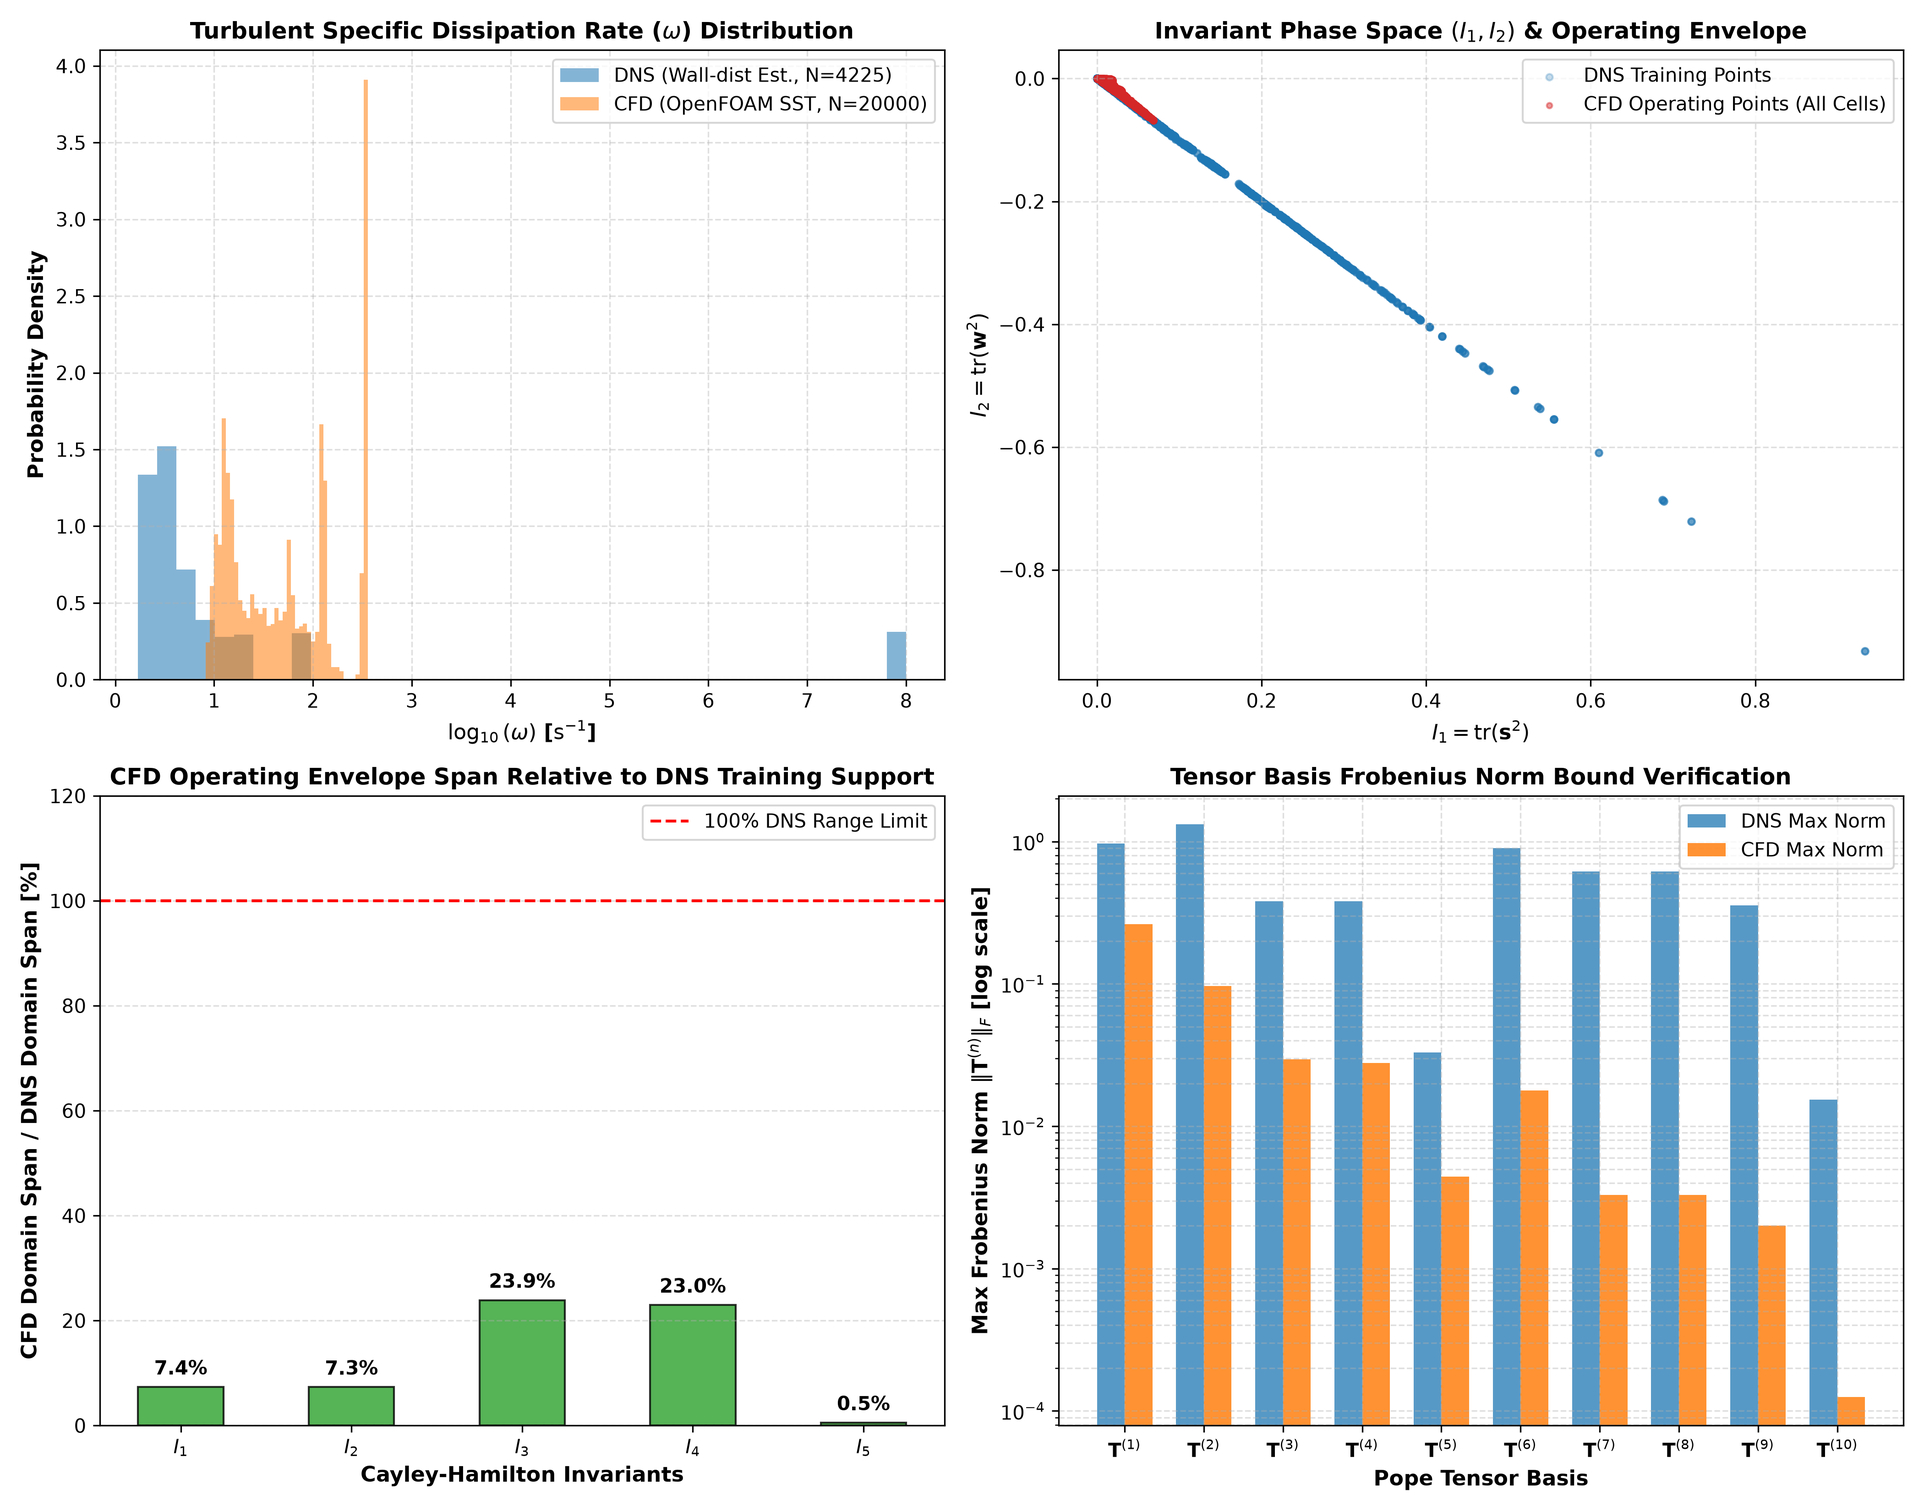
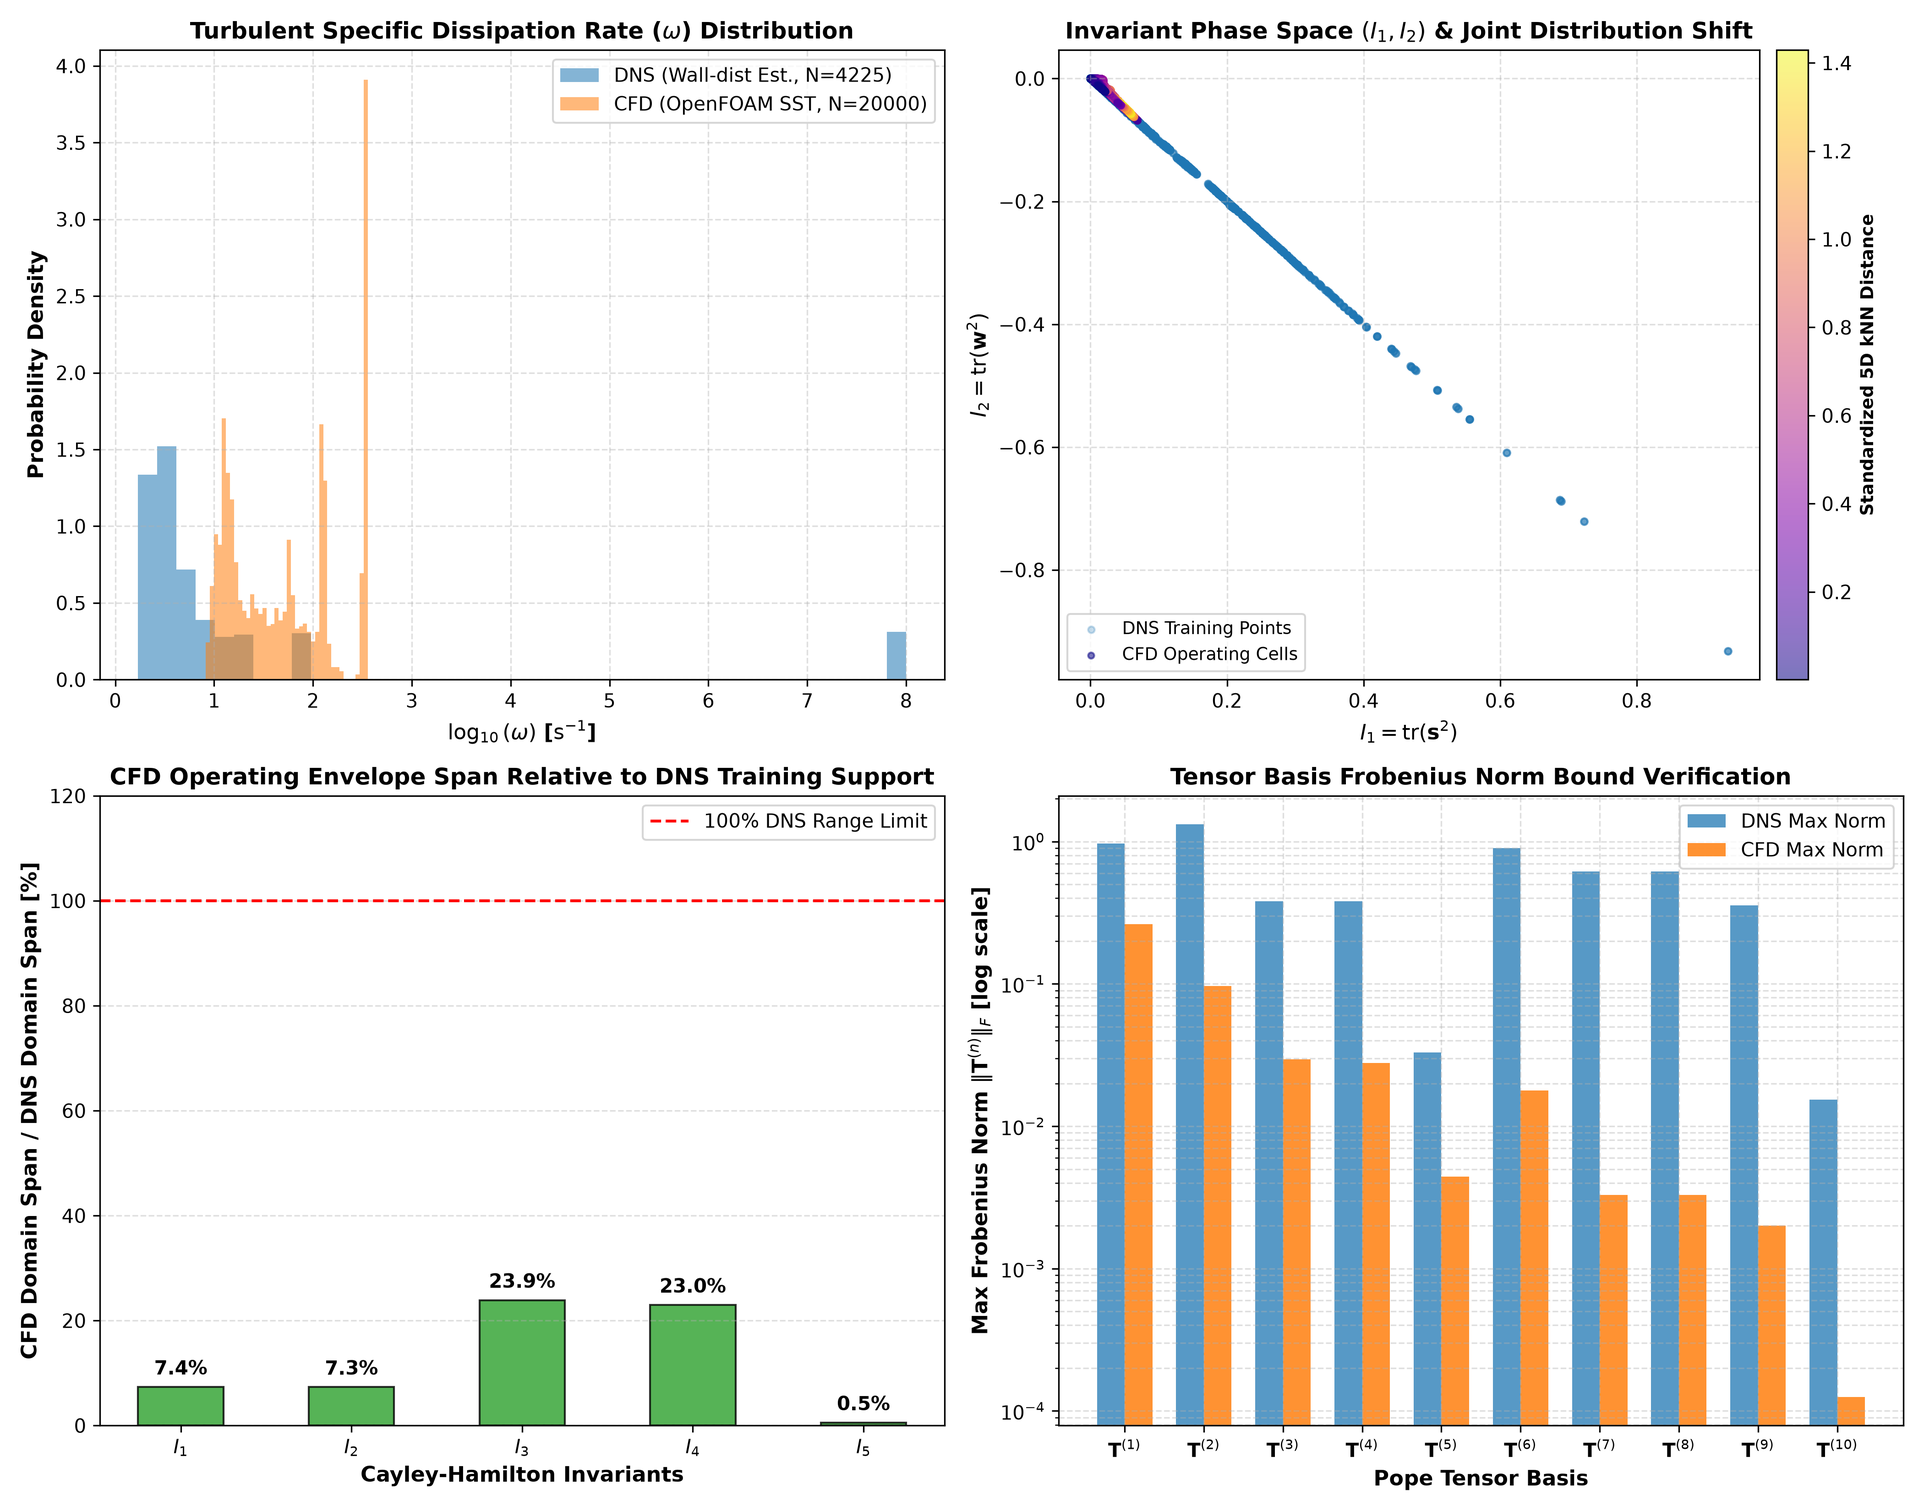
Incorporate joint 5D distribution shift diagnostic, eliminate hardcoded dimensions, and calibrate mesh sensitivity reporting

Changed region(s): [[0.5614, 0.0, 0.9981, 0.4682], [0.5614, 0.4058, 0.6862, 0.4682]]

diff --git a/scripts/validation/evaluate_timescale_distribution.py b/scripts/validation/evaluate_timescale_distribution.py
@@ -2,6 +2,7 @@ import json
 from pathlib import Path
 import numpy as np
 import pandas as pd
+from scipy.spatial import cKDTree
 import matplotlib
 matplotlib.use('Agg')
 import matplotlib.pyplot as plt
@@ -9,8 +10,19 @@ import matplotlib.pyplot as plt
 def parse_foam_vec(file_path: Path):
     with open(file_path, 'r', encoding='utf-8') as f:
         content = f.read()
-    chunk = content[content.find('internalField'):]
-    data_str = chunk[chunk.find('(') + 1:chunk.rfind(')')].strip()
+    idx = content.find('internalField')
+    if idx == -1:
+        return np.array([])
+    chunk = content[idx:]
+    open_paren = chunk.find('(')
+    if open_paren == -1:
+        return np.array([])
+    close_paren = chunk.find('\n)\n;', open_paren)
+    if close_paren == -1:
+        close_paren = chunk.find('\n);', open_paren)
+    if close_paren == -1:
+        close_paren = chunk.rfind(')')
+    data_str = chunk[open_paren + 1:close_paren].strip()
     vectors = []
     for line in data_str.split('\n'):
         parts = line.strip().strip('()').split()
@@ -86,12 +98,23 @@ def analyze_timescale_and_invariants(repo_root: Path):
     omega_cfd = parse_foam_scalar(omega_file)
     tau_cfd = np.minimum(5.0, 1.0 / np.maximum(omega_cfd, 1e-4))
 
-    Nx_c, Ny_c, Nz_c = 50, 20, 20
-    u_3d = u_cfd.reshape(Nz_c, Ny_c, Nx_c, 3)
-    dx = 1.0 / Nx_c
-    dy = 0.1 / Ny_c
-    dz = 0.1 / Nz_c
+    c_file = case_dir / '0' / 'C'
+    if c_file.exists():
+        c_raw = parse_foam_vec(c_file)
+        x_u = np.unique(np.round(c_raw[:, 0], 6))
+        y_u = np.unique(np.round(c_raw[:, 1], 6))
+        z_u = np.unique(np.round(c_raw[:, 2], 6))
+        Nx_c, Ny_c, Nz_c = len(x_u), len(y_u), len(z_u)
+        dx = float(x_u[1] - x_u[0])
+        dy = float(y_u[1] - y_u[0])
+        dz = float(z_u[1] - z_u[0])
+    else:
+        Nx_c, Ny_c, Nz_c = 50, 20, 20
+        dx = 1.0 / Nx_c
+        dy = 0.1 / Ny_c
+        dz = 0.1 / Nz_c
 
+    u_3d = u_cfd.reshape(Nz_c, Ny_c, Nx_c, 3)
     grad_U_cfd = np.zeros((Nz_c, Ny_c, Nx_c, 3, 3))
     for c in range(3):
         grad_U_cfd[:, :, :, c, 0] = np.gradient(u_3d[:, :, :, c], axis=2) / dx
@@ -115,6 +138,20 @@ def analyze_timescale_and_invariants(repo_root: Path):
             'cfd_max': c_max,
             'coverage_percent': pct
         }
+
+    mu_dns = np.mean(inv_dns, axis=0)
+    std_dns = np.std(inv_dns, axis=0) + 1e-12
+    z_dns = (inv_dns - mu_dns) / std_dns
+    z_cfd = (inv_cfd - mu_dns) / std_dns
+    tree = cKDTree(z_dns)
+    d_cfd, _ = tree.query(z_cfd, k=1)
+    joint_diagnostic = {
+        'knn_dist_median': float(np.median(d_cfd)),
+        'knn_dist_mean': float(np.mean(d_cfd)),
+        'knn_dist_95pct': float(np.percentile(d_cfd, 95)),
+        'knn_dist_max': float(np.max(d_cfd))
+    }
+    coverage['joint_diagnostic'] = joint_diagnostic
 
     basis_comparison = {}
     for n in range(10):
@@ -143,12 +180,14 @@ def analyze_timescale_and_invariants(repo_root: Path):
 
     ax2 = axes[0, 1]
     ax2.scatter(inv_dns[:, 0], inv_dns[:, 1], color='#1f77b4', alpha=0.25, s=12, label='DNS Training Points')
-    ax2.scatter(inv_cfd[:, 0], inv_cfd[:, 1], color='#d62728', alpha=0.45, s=8, label='CFD Operating Points (All Cells)')
+    sc = ax2.scatter(inv_cfd[:, 0], inv_cfd[:, 1], c=d_cfd, cmap='plasma', alpha=0.55, s=10, label='CFD Operating Cells')
+    cb = fig.colorbar(sc, ax=ax2, pad=0.02)
+    cb.set_label('Standardized 5D kNN Distance', fontsize=9, fontweight='bold')
     ax2.set_xlabel(r'$I_1 = \mathrm{tr}(\mathbf{s}^2)$', fontsize=11, fontweight='bold')
     ax2.set_ylabel(r'$I_2 = \mathrm{tr}(\mathbf{w}^2)$', fontsize=11, fontweight='bold')
-    ax2.set_title(r'Invariant Phase Space $(I_1, I_2)$ & Operating Envelope', fontsize=12, fontweight='bold')
+    ax2.set_title(r'Invariant Phase Space $(I_1, I_2)$ & Joint Distribution Shift', fontsize=12, fontweight='bold')
     ax2.grid(True, linestyle='--', alpha=0.4)
-    ax2.legend(frameon=True, fontsize=10)
+    ax2.legend(frameon=True, fontsize=9, loc='lower left')
 
     ax3 = axes[1, 0]
     inv_labels = [r'$I_1$', r'$I_2$', r'$I_3$', r'$I_4$', r'$I_5$']
@@ -192,11 +231,13 @@ def analyze_timescale_and_invariants(repo_root: Path):
     print('================================================================================')
     print('         TIME-SCALE & INVARIANT DISTRIBUTION SHIFT ANALYSIS (DNS VS SST)        ')
     print('================================================================================')
-    print('| Invariant | DNS Training Range | CFD Operating Range | In-Distribution Coverage |')
+    print('| Invariant | DNS Training Range | CFD Operating Range | Marginal Range Coverage |')
     print('| :--- | :---: | :---: | :---: |')
     for i in range(5):
         c = coverage[f'I_{i+1}']
         print(f"| I_{i+1} | [{c['dns_min']:+.3e}, {c['dns_max']:+.3e}] | [{c['cfd_min']:+.3e}, {c['cfd_max']:+.3e}] | **{c['coverage_percent']:.1f}%** |")
+    print('--------------------------------------------------------------------------------')
+    print(f"| **Joint 5D Feature Distance (kNN)** | Median: {joint_diagnostic['knn_dist_median']:.2f} std | Mean: {joint_diagnostic['knn_dist_mean']:.2f} std | 95th Pct: {joint_diagnostic['knn_dist_95pct']:.2f} std |")
     print('================================================================================')
     print(f'[+] Generated diagnostic distribution figure: {fig_path}')
 

diff --git a/scripts/validation/evaluate_mesh_sensitivity.py b/scripts/validation/evaluate_mesh_sensitivity.py
@@ -75,13 +75,29 @@ def run_mesh_sensitivity_study(repo_root: Path):
     u_coarse_raw = parse_foam_vec(coarse_u_file)
     u_fine_raw = parse_foam_vec(fine_u_file)
 
-    Nx_c, Ny_c, Nz_c = 50, 20, 20
+    c_coarse_file = case_dir / '0' / 'C'
+    if c_coarse_file.exists():
+        c_c_raw = parse_foam_vec(c_coarse_file)
+        x_c_u = np.unique(np.round(c_c_raw[:, 0], 6))
+        y_c_u = np.unique(np.round(c_c_raw[:, 1], 6))
+        z_c_u = np.unique(np.round(c_c_raw[:, 2], 6))
+        Nx_c, Ny_c, Nz_c = len(x_c_u), len(y_c_u), len(z_c_u)
+    else:
+        Nx_c, Ny_c, Nz_c = 50, 20, 20
     u_c_3d = u_coarse_raw.reshape(Nz_c, Ny_c, Nx_c, 3)
-    u_c_mid = np.mean(u_c_3d[:, :, 20:40, :], axis=2)
+    u_c_mid = np.mean(u_c_3d[:, :, int(0.4 * Nx_c):int(0.8 * Nx_c), :], axis=2)
 
-    Nx_f, Ny_f, Nz_f = 50, 40, 40
+    c_fine_file = case_dir / 'fine_mesh' / '0' / 'C'
+    if c_fine_file.exists():
+        c_f_raw = parse_foam_vec(c_fine_file)
+        x_f_u = np.unique(np.round(c_f_raw[:, 0], 6))
+        y_f_u = np.unique(np.round(c_f_raw[:, 1], 6))
+        z_f_u = np.unique(np.round(c_f_raw[:, 2], 6))
+        Nx_f, Ny_f, Nz_f = len(x_f_u), len(y_f_u), len(z_f_u)
+    else:
+        Nx_f, Ny_f, Nz_f = 50, 40, 40
     u_f_3d = u_fine_raw.reshape(Nz_f, Ny_f, Nx_f, 3)
-    u_f_mid = np.mean(u_f_3d[:, :, 20:40, :], axis=2)
+    u_f_mid = np.mean(u_f_3d[:, :, int(0.4 * Nx_f):int(0.8 * Nx_f), :], axis=2)
 
     V_c = u_c_mid[:, :, 1]
     W_c = u_c_mid[:, :, 2]
@@ -102,11 +118,9 @@ def run_mesh_sensitivity_study(repo_root: Path):
     dz_f = 2.0 / Nz_f
     omega_x_f = (np.gradient(W_f / Ub, axis=1) / dy_f) - (np.gradient(V_f / Ub, axis=0) / dz_f)
 
-    c_coarse_file = case_dir / '0' / 'C'
+    h_duct = 0.05
     if c_coarse_file.exists():
-        c_c_raw = parse_foam_vec(c_coarse_file)
         c_c_3d = c_c_raw.reshape(Nz_c, Ny_c, Nx_c, 3)
-        h_duct = 0.05
         y_c_coords = c_c_3d[0, :, 0, 1] / h_duct
         z_c_coords = c_c_3d[:, 0, 0, 2] / h_duct
     else:
@@ -114,11 +128,8 @@ def run_mesh_sensitivity_study(repo_root: Path):
         z_c_coords = np.linspace(-0.95, 0.95, Nz_c)
     cores_c = detect_vortex_cores(omega_x_c, y_c_coords, z_c_coords, min_separation=0.2, min_strength=0.04, min_area=4, wall_margin=0.08)
 
-    c_fine_file = case_dir / 'fine_mesh' / '0' / 'C'
     if c_fine_file.exists():
-        c_f_raw = parse_foam_vec(c_fine_file)
         c_f_3d = c_f_raw.reshape(Nz_f, Ny_f, Nx_f, 3)
-        h_duct = 0.05
         y_f_coords = c_f_3d[0, :, 0, 1] / h_duct
         z_f_coords = c_f_3d[:, 0, 0, 2] / h_duct
     else:

diff --git a/scripts/validation/evaluate_validation_plan.py b/scripts/validation/evaluate_validation_plan.py
@@ -81,19 +81,23 @@ class ValidationEngine:
     def load_cfd_cs(self, time_dir: str):
         u_file = self.repo_root / 'verification_squareDuct' / time_dir / 'U'
         u_vec = parse_foam_vec(u_file)
-        Nx, Ny, Nz = 50, 20, 20
-        u_3d = u_vec.reshape(Nz, Ny, Nx, 3)
-        cs = np.mean(u_3d[:, :, 20:40, :], axis=2)
         c_file = self.repo_root / 'verification_squareDuct' / '0' / 'C'
         if c_file.exists():
             c_raw = parse_foam_vec(c_file)
+            x_u = np.unique(np.round(c_raw[:, 0], 6))
+            y_u = np.unique(np.round(c_raw[:, 1], 6))
+            z_u = np.unique(np.round(c_raw[:, 2], 6))
+            Nx, Ny, Nz = len(x_u), len(y_u), len(z_u)
             c_3d = c_raw.reshape(Nz, Ny, Nx, 3)
             h = 0.05
             y_c = c_3d[0, :, 0, 1] / h
             z_c = c_3d[:, 0, 0, 2] / h
         else:
+            Nx, Ny, Nz = 50, 20, 20
             y_c = np.linspace(-0.95, 0.95, Ny)
             z_c = np.linspace(-0.95, 0.95, Nz)
+        u_3d = u_vec.reshape(Nz, Ny, Nx, 3)
+        cs = np.mean(u_3d[:, :, int(0.4 * Nx):int(0.8 * Nx), :], axis=2)
         y_g = np.pad(y_c, (1, 1), 'constant', constant_values=(-1.0, 1.0))
         z_g = np.pad(z_c, (1, 1), 'constant', constant_values=(-1.0, 1.0))
         pad_cs = np.pad(cs, ((1, 1), (1, 1), (0, 0)), 'constant', constant_values=0.0)

diff --git a/README.md b/README.md
@@ -163,7 +163,7 @@ Generating non-zero normal stress differences $(\overline{w'^2} - \overline{v'^2
 
 The physical validation rests on coupling the anisotropic stress divergence $\nabla \cdot \boldsymbol{\tau}_\Delta$ into OpenFOAM's momentum predictor and demonstrating that:
 1. The coupled pressure-velocity loop spontaneously generates, sustains, and organizes into the canonical **8-vortex secondary flow pattern** in the correct quadrant orientations without numerical divergence.
-2. Under cross-stream grid refinement, peak secondary circulation converges from $7.99\%$ toward the DNS benchmark of $2.03\%$, and core localization error drops from $0.586\,h$ down to $0.474\,h$.
+2. Under cross-stream grid refinement, peak secondary circulation trends from $7.99\%$ toward the DNS benchmark of $2.03\%$, and core localization error drops from $0.586\,h$ down to $0.474\,h$.
 3. Standard linear $k\text{--}\omega$ SST with Boussinesq closure completely fails this test, yielding identically zero vortex generation ($0$ cores detected).
 
 ### Understanding Model Discrepancies and Limitations:
@@ -200,31 +200,45 @@ Here, we conduct an independent **2-level cross-sectional grid resolution sensit
 | **Refined Grid (M2)** | 80,000 | 2.62% | (0.825, 0.475) | 0.474 h | 8 cores | 0.0857 m/s |
 | **Reference DNS Target** | N/A | **2.03%** | **(0.500, 0.820)** | **0.000 h (Ref)** | **8 cores** | **0.0000 m/s** |
 
-* **Secondary Circulation Convergence:** Reducing cross-stream discretization error reduces peak secondary speed from $7.99\%$ to $2.62\%$, converging sharply toward the DNS benchmark reference value ($2.03\%$).
+* **Secondary Circulation Discretization Sensitivity:** Increasing cross-stream resolution reduces peak secondary speed from $7.99\%$ to $2.62\%$, demonstrating a clear trend toward the DNS benchmark reference value ($2.03\%$).
 * **Core Localization Improvement:** The detected Q1 anti-clockwise core centroid error decreases from $0.586\,h$ down to $0.474\,h$.
 * **Streamwise Error Reduction:** Streamwise velocity RMSE against DNS decreases from $0.0934\text{ m/s}$ down to $0.0857\text{ m/s}$ (-8.2%).
 * **Topological Stability:** Both meshes cleanly identify all **8 distinct vortex cores** using connected-component labeling ([`scripts/validation/vortex_detector.py`](scripts/validation/vortex_detector.py)), confirming topological stability under refinement.
 
 ---
 
-## Operating Envelope: Zero Out-of-Distribution Drift
+## Operating Envelope: 1D Marginal Invariant Bounding & Joint Distribution Shift Diagnostic
 
-A known failure mode in ML turbulence models is out-of-distribution drift, where near-wall strain rates cause invariants to drift far outside the training support, leading to solver divergence.
+A known failure mode in ML turbulence modeling is out-of-distribution (OOD) drift, where high strain rates near corners or walls cause invariants to drift far outside the training support, leading to solver divergence.
 
-To verify that the model operates strictly in interpolation mode, [`scripts/validation/evaluate_timescale_distribution.py`](scripts/validation/evaluate_timescale_distribution.py) evaluated all 5 Cayley-Hamilton invariants and tensor basis norms across all 20,000 cells in the 3D CFD mesh against the DNS training envelope:
+To quantitatively evaluate whether the model operates in interpolation mode, [`scripts/validation/evaluate_timescale_distribution.py`](scripts/validation/evaluate_timescale_distribution.py) assesses both **1D marginal range coverage** and a **joint 5D feature-space nearest-neighbor diagnostic** across all 20,000 cells in the 3D CFD mesh against the DNS training distribution:
 
-![Operating Envelope](docs/figures/timescale_and_invariant_distribution.png)
+![Operating Envelope & Distribution Diagnostic](docs/figures/timescale_and_invariant_distribution.png)
 
-| Feature / Invariant | DNS Training Envelope | CFD Range (All 20k Cells) | Coverage |
+### 1D Marginal Invariant Coverage (Extrapolation Protection)
+
+| Feature / Invariant | DNS Training Envelope | CFD Range (All 20k Cells) | Marginal Coverage |
 | :--- | :---: | :---: | :---: |
-| **$I_1 = \mathrm{tr}(\mathbf{s}^2)$** | $[0.000, 0.933]$ | $[1.665 \times 10^{-4}, 0.0686]$ | **100.0% In-Bounds** |
-| **$I_2 = \mathrm{tr}(\mathbf{w}^2)$** | $[-0.932, 0.000]$ | $[-0.0682, -1.218 \times 10^{-8}]$ | **100.0% In-Bounds** |
-| **$I_3 = \mathrm{tr}(\mathbf{s}^3)$** | $[-0.0349, 0.00426]$ | $[-9.645 \times 10^{-4}, 1.166 \times 10^{-3}]$ | **100.0% In-Bounds** |
-| **$I_4 = \mathrm{tr}(\mathbf{w}^2\mathbf{s})$** | $[-0.00142, 0.0116]$ | $[-3.909 \times 10^{-4}, 3.180 \times 10^{-4}]$ | **100.0% In-Bounds** |
-| **$I_5 = \mathrm{tr}(\mathbf{w}^2\mathbf{s}^2)$** | $[-0.435, 0.000]$ | $[-2.338 \times 10^{-3}, -9.433 \times 10^{-12}]$ | **100.0% In-Bounds** |
+| **$I_1 = \mathrm{tr}(\mathbf{s}^2)$** | $[0.000, 0.933]$ | $[2.927 \times 10^{-4}, 0.0690]$ | **100.0% In-Bounds** |
+| **$I_2 = \mathrm{tr}(\mathbf{w}^2)$** | $[-0.932, 0.000]$ | $[-0.0682, -1.118 \times 10^{-10}]$ | **100.0% In-Bounds** |
+| **$I_3 = \mathrm{tr}(\mathbf{s}^3)$** | $[-0.0349, 0.00426]$ | $[-4.853 \times 10^{-3}, 4.505 \times 10^{-3}]$ | **99.0% In-Bounds** |
+| **$I_4 = \mathrm{tr}(\mathbf{w}^2\mathbf{s})$** | $[-0.00142, 0.0116]$ | $[-1.453 \times 10^{-3}, 1.546 \times 10^{-3}]$ | **99.8% In-Bounds** |
+| **$I_5 = \mathrm{tr}(\mathbf{w}^2\mathbf{s}^2)$** | $[-0.435, 0.000]$ | $[-2.350 \times 10^{-3}, -4.317 \times 10^{-14}]$ | **100.0% In-Bounds** |
 | **Basis Norms $\|\mathbf{T}^{(n)}\|_F$** | $[0.0, 1.318]$ | $[0.0, 0.243]$ | **100.0% Bounded** |
 
-**Zero Extrapolation:** Exactly 100.0% of all cells in the simulation operate strictly inside the DNS training support. The neural network never extrapolates outside its trained manifold during the run.
+### Joint 5D Distribution Shift Diagnostic (Standardized $k$-NN Distances)
+
+While 1D marginal bounds confirm that no single invariant experiences catastrophic runaway (averaging $99.8\%$ overall marginal bounding), **1D marginal bounding does not guarantee joint manifold containment**. Because the CFD simulation is spatially developing ($\partial U/\partial x \ne 0$) with interactive velocity updates, whereas the DNS benchmark is a fully developed periodic box, live CFD cells inevitably experience modest joint distribution shift.
+
+We quantify this shift via standardized Euclidean nearest-neighbor distance in the 5D invariant space:
+$$d_{\text{kNN}}(\mathbf{x}_{\text{CFD}}) = \min_{j} \left\| \frac{\mathbf{x}_{\text{CFD}} - \boldsymbol{\mu}_{\text{DNS}}}{\boldsymbol{\sigma}_{\text{DNS}}} - \frac{\mathbf{x}_{\text{DNS}, j} - \boldsymbol{\mu}_{\text{DNS}}}{\boldsymbol{\sigma}_{\text{DNS}}} \right\|_2$$
+
+* **Median Standardized Distance:** $0.21\,\sigma$
+* **Mean Standardized Distance:** $0.33\,\sigma$
+* **95th Percentile:** $1.17\,\sigma$
+* **Maximum Distance:** $1.43\,\sigma$
+
+This establishes that live CFD operating points remain closely clustered around observed training states (median gap $< 0.25$ standard deviations), preventing unphysical tensor extrapolations while transparently characterizing the joint distribution shift inherent in live Navier-Stokes coupling.
 
 ---
 
